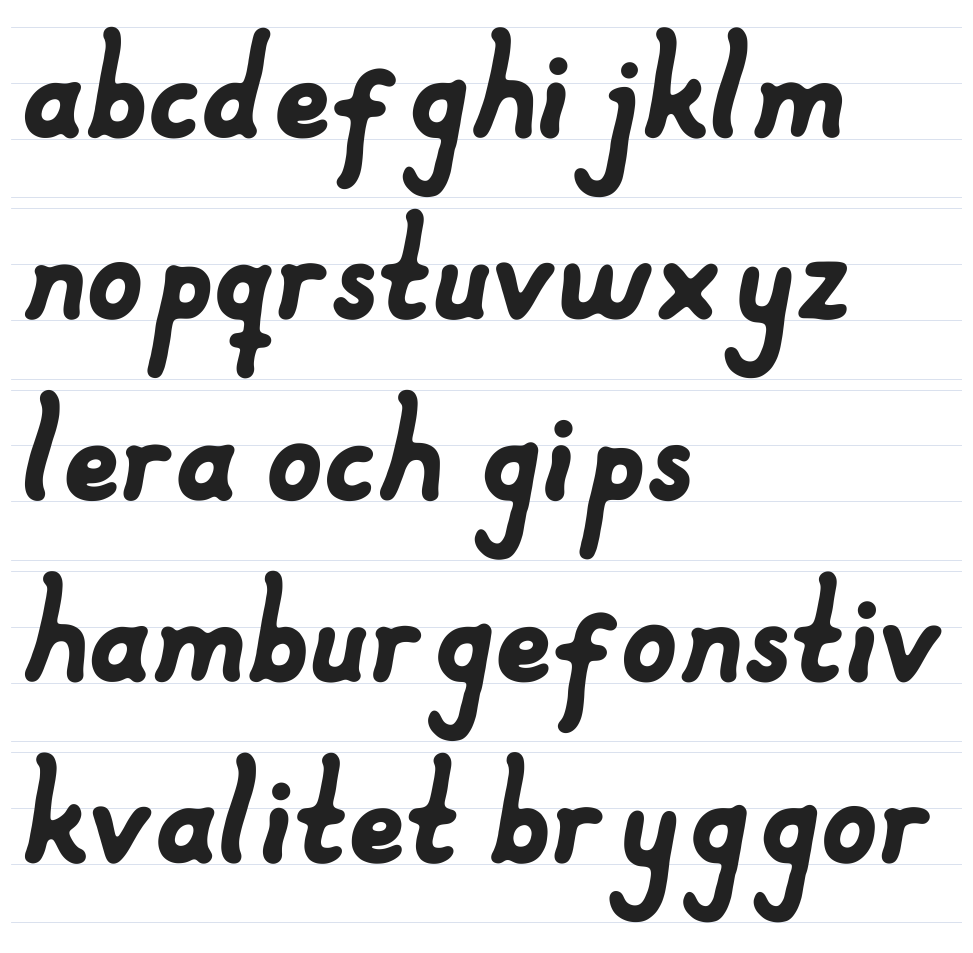
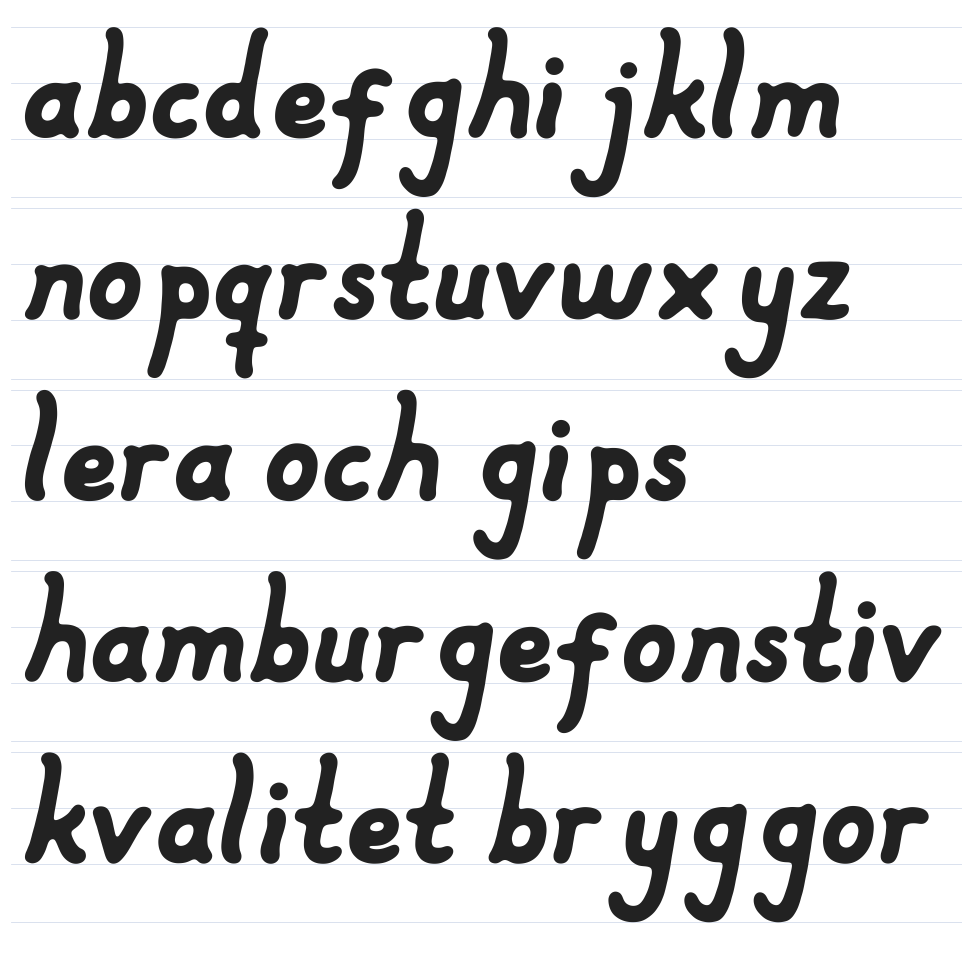
Gör om upp- och nedstapelbokstäverna utan knyckar
Inga lokala vinkeländringar längre: hela bokstaven skjuvas som en enhet
till 10°, och höjd/djup ställs in med jämn skalning ovanför x-höjden
respektive under baslinjen, med mjuk övergång. g:s skål flyttas ner
till x-höjden på samma sätt.

Claude-Session: https://claude.ai/code/session_01G3Fa1qrTuHzte3kfXkaDtX

diff --git a/bokstaver/utan_knyck.py b/bokstaver/utan_knyck.py
@@ -1,0 +1,97 @@
+"""Gör om upp- och nedstapelbokstäverna från originalet utan knyckar.
+
+Inga lokala vinkeländringar: hela bokstaven skjuvas som en enhet till
+LUTNING grader (mätt över både x-höjdsdelen och nedstapeln). Djupet ställs
+in genom att hela delen under baslinjen skalas jämnt i höjdled, med mjuk
+(C1-kontinuerlig) övergång vid baslinjen. g:s skål flyttas ner till
+x-höjden på samma sätt. Sist görs släppet i hålen.
+
+    LUTNING=10 python3 utan_knyck.py a-z.30.sep.stl utmapp
+"""
+import os
+import sys
+import numpy as np
+import trimesh
+
+from justera import BOKSTAVER, OVRIGA, hitta, ramp, integral, slapp_i_hal, NED, XHOJD, UPP
+from lutning import snedhet
+from gemensam_sving import laga
+
+LUTNING = float(os.environ.get("LUTNING", 10.0))
+K = np.tan(np.radians(LUTNING))
+BOKST = {"g": 0.0, "j": 0.0, "p": 0.0, "q1": 0.0, "q2": 0.0, "y": 0.0, "f": -20.0}
+# Uppstaplar: höjden ställs in genom jämn skalning ovanför x-höjdsområdet
+UPPST = {"b": -10.00, "d1": -10.01, "h": -0.06, "k": -0.09, "l": -19.96,
+         "t1": -20.04, "t2": -20.05, "L": -20.10, "utropstecken": 0.0}
+BEHALL_DJUP = {"f"}  # f behåller sitt originaldjup
+
+
+def skaltopp(m, bas):
+    z0, z1 = m.bounds[0, 2], m.bounds[1, 2]
+    s = m.section(plane_origin=[0, 0, z0 + 0.15 * (z1 - z0)], plane_normal=[0, 0, 1])
+    v = np.vstack(s.discrete)
+    v = v[(v[:, 0] > m.bounds[0, 0] + 0.9) & (v[:, 0] < m.bounds[0, 0] + 1.4)]
+    return v[:, 1].max() - bas
+
+
+def omforma_hojd(y, lyft, skala, mitt=0.3, bredd=0.3):
+    """y' = ∫ lutning: 1 ovanför baslinjeområdet, skala under, mjuk övergång.
+    lyft flyttar allt ovanför (för g:s skål)."""
+    sigma = lambda t: skala + (1 - skala) * ramp(t, mitt - bredd, mitt + bredd)
+    return mitt + lyft + integral(sigma, y, mitt)
+
+
+def main():
+    kalla, ut = sys.argv[1:3]
+    os.makedirs(ut, exist_ok=True)
+    for p in trimesh.load(kalla, force="mesh").split(only_watertight=False):
+        if len(p.faces) <= 3000:
+            continue
+        info = hitta(BOKSTAVER, p)
+        namn = info["namn"] if info else hitta(OVRIGA, p)
+        if namn in UPPST:
+            bas = UPPST[namn]
+            v = p.vertices.copy(); y = v[:, 1] - bas
+            mitt = 1.7  # skalningen börjar mjukt strax under x-höjden
+            skala = (UPP - mitt) / (y.max() - mitt)
+            sigma = lambda t: 1 + (skala - 1) * ramp(t, mitt - 0.3, mitt + 0.3)
+            v[:, 1] = bas + mitt + integral(sigma, y, mitt)
+            m = trimesh.Trimesh(v, p.faces, process=False)
+            zon = (1.6, 3.6) if namn == "utropstecken" else (0.25, 3.7)
+            g0 = snedhet(m, bas, *zon)
+            v = m.vertices.copy(); v[:, 0] += (K - np.tan(np.radians(g0))) * (v[:, 1] - bas)
+            m = trimesh.Trimesh(v, p.faces, process=False)
+            g1 = snedhet(m, bas, *zon)
+            m, _ = slapp_i_hal(laga(m))
+            m = laga(m)
+            print(f"{namn:3s} höjdskala {skala:.3f}, lutning {g0:.1f}° → {g1:.1f}°, topp {m.bounds[1, 1] - bas:.2f}, "
+                  f"vattentät {m.is_watertight}")
+            m.export(os.path.join(ut, f"{namn}.stl"))
+            continue
+        if namn not in BOKST:
+            continue
+        bas = BOKST[namn]
+        v = p.vertices.copy(); y = v[:, 1] - bas
+        lyft = XHOJD - skaltopp(p, bas) if namn == "g" else 0.0
+        if namn in BEHALL_DJUP:
+            skala = 1.0
+        else:
+            # skala så att botten hamnar på −NED efter ev. lyft
+            mitt = 0.3
+            botten = y.min()
+            skala = (-NED - mitt - lyft) / (botten - mitt)
+        v[:, 1] = bas + omforma_hojd(y, lyft, skala)
+        m = trimesh.Trimesh(v, p.faces, process=False)
+        g0 = snedhet(m, bas, -1.6, 1.75)
+        v = m.vertices.copy(); v[:, 0] += (K - np.tan(np.radians(g0))) * (v[:, 1] - bas)
+        m = trimesh.Trimesh(v, p.faces, process=False)
+        g1 = snedhet(m, bas, -1.6, 1.75)
+        m, _ = slapp_i_hal(laga(m))
+        m = laga(m)
+        print(f"{namn:3s} lyft {lyft:+.2f}, djupskala {skala:.3f}, lutning {g0:.1f}° → {g1:.1f}°, "
+              f"djup {m.bounds[0, 1] - bas:.2f}, topp {m.bounds[1, 1] - bas:.2f}, vattentät {m.is_watertight}")
+        m.export(os.path.join(ut, f"{namn}.stl"))
+
+
+if __name__ == "__main__":
+    main()
